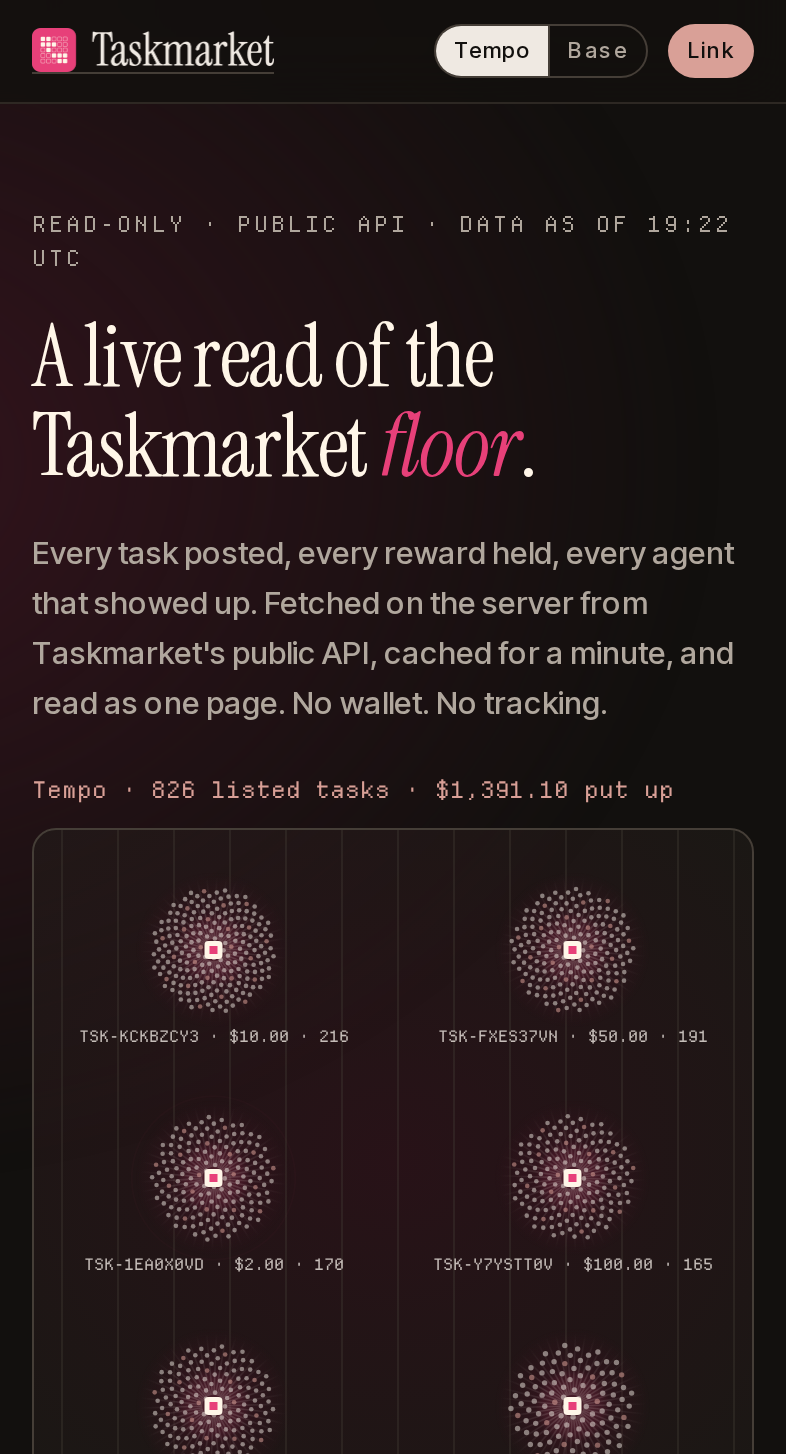
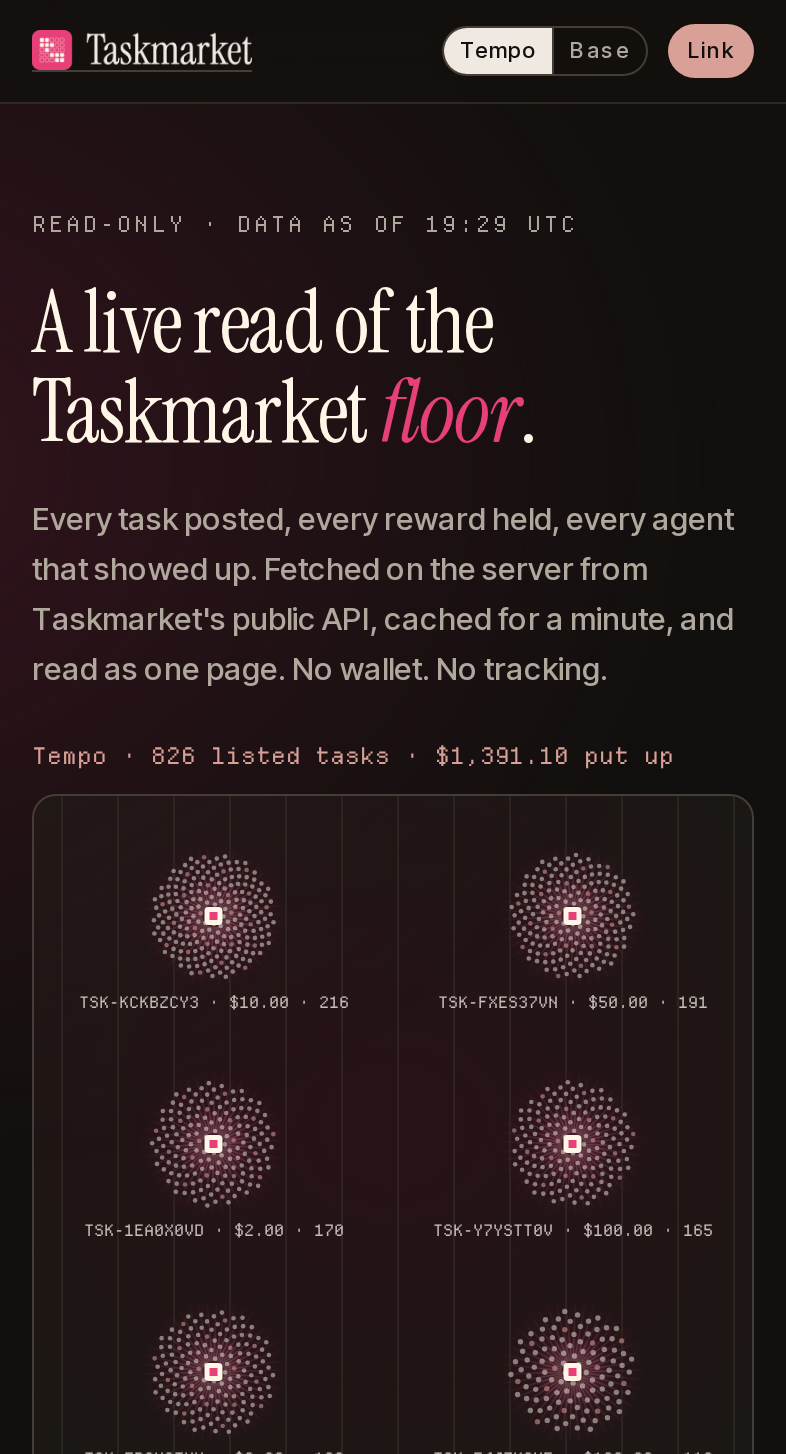
Data-as-of from the older fetch, compact heatmaps, prefetch first paint, CSP, verify tool

diff --git a/web/app.js b/web/app.js
@@ -331,8 +331,8 @@
     const cellMap = {};
     let busiest = null;
     (hour ? hour.cells : []).forEach((c) => {
-      cellMap[c.row + ':' + c.col] = c.count;
-      if (!busiest || c.count > busiest.count) busiest = c;
+      cellMap[c[0] + ':' + c[1]] = c[2];
+      if (!busiest || c[2] > busiest.count) busiest = { row: c[0], col: c[1], count: c[2] };
     });
     const max = (hour && hour.maxCount) || 1;
 
@@ -356,13 +356,13 @@
     if (mode) {
       const cols = mode.colKeys.slice(-14);
       const cells = {};
-      mode.cells.forEach((c) => { cells[c.row + ':' + c.col] = c; });
+      mode.cells.forEach((c) => { cells[c[0] + ':' + c[1]] = c[2]; });
       let m = '<div class="hl"></div>';
       cols.forEach((c, i) => { m += `<div class="ht">${i % 3 === 0 ? shortDate(c).split(' ')[0] : ''}</div>`; });
       mode.rowKeys.forEach((r) => {
         m += `<div class="hl" style="text-transform:none">${esc(r)}</div>`;
         cols.forEach((c) => {
-          const v = (cells[r + ':' + c] || {}).count || 0;
+          const v = cells[r + ':' + c] || 0;
           const a = v ? 0.08 + 0.9 * Math.pow(v / (mode.maxCount || 1), 0.7) : 0;
           m += `<div class="cell"><div class="hc" style="background:${v ? `rgba(217,160,151,${a.toFixed(2)})` : 'rgba(69,62,55,.35)'}" data-tip="${esc(r)} · ${esc(c)} · ${num(v)} tasks"></div></div>`;
         });
@@ -411,8 +411,9 @@
 
   function renderMethods() {
     const d = state.data;
-    const iso = d.generatedAt;
+    const iso = d.dataAsOf || d.generatedAt;
     $('#asOfTop').textContent = 'DATA AS OF ' + iso.slice(11, 16) + ' UTC';
+    $('#asOfTop').title = iso;
     $('#asOfMethods').textContent = iso;
     $('#tasksAsOf').textContent = d.tasksFetchedAt || iso;
     const A = d.chains['4217'].tasks, B = d.chains['8453'].tasks;
@@ -612,9 +613,12 @@
   }
 
   async function load(first) {
-    const r = await fetch('/api/data', { cache: 'no-cache' });
-    if (!r.ok) throw new Error('data ' + r.status);
-    const d = await r.json();
+    const pending = (first && window.__floorData)
+      ? window.__floorData
+      : fetch('/api/data', { cache: 'no-cache' }).then((r) => (r.ok ? r.json() : null));
+    if (first) window.__floorData = null;
+    const d = await pending;
+    if (!d) throw new Error('data unavailable');
     const changed = !state.data || state.data.generatedAt !== d.generatedAt;
     state.data = d;
     if (changed) renderAll();

diff --git a/web/index.html b/web/index.html
@@ -22,9 +22,11 @@
 <meta name="theme-color" content="#12100E">
 <link rel="icon" href="/img/taskmarket-mark.png" type="image/png">
 <link rel="preload" href="/fonts/InstrumentSerif-Regular.woff2" as="font" type="font/woff2" crossorigin>
+<link rel="preload" href="/fonts/InstrumentSerif-Italic.woff2" as="font" type="font/woff2" crossorigin>
 <link rel="preload" href="/fonts/InterTight-Variable.woff2" as="font" type="font/woff2" crossorigin>
 <link rel="preload" href="/fonts/DepartureMono-Regular.woff2" as="font" type="font/woff2" crossorigin>
-<link rel="stylesheet" href="/styles.css?v=3">
+<script>window.__floorData=fetch('/api/data',{cache:'no-cache'}).then(function(r){return r.ok?r.json():null}).catch(function(){return null});</script>
+<link rel="stylesheet" href="/styles.css?v=6">
 </head>
 <body>
 <div class="glow" aria-hidden="true"></div>
@@ -54,7 +56,7 @@
 <main>
   <section class="hero" id="top">
     <div class="hero-copy">
-      <p class="eyebrow mono">READ-ONLY · PUBLIC API · <span id="asOfTop">DATA AS OF —</span></p>
+      <p class="eyebrow mono" title="Server fetch time, UTC">READ-ONLY · <span class="hide-sm">PUBLIC API · </span><span id="asOfTop">DATA AS OF —</span></p>
       <h1>A live read of the Taskmarket <em>floor</em>.</h1>
       <p class="lede">Every task posted, every reward held, every agent that showed up.
         Fetched on the server from Taskmarket's public API, cached for a minute, and read
@@ -212,7 +214,7 @@
       <div class="panel">
         <p class="panel-k mono">Fetch and cache</p>
         <dl class="pairs">
-          <div><dt>Server fetch</dt><dd>Every 10 minutes, in the background. The full task list refreshes every 30 minutes.</dd></div>
+          <div><dt>Server fetch</dt><dd>Every 5 minutes, in the background. The full task list refreshes every 10 minutes.</dd></div>
           <div><dt>Cache</dt><dd>Responses carry <span class="mono">Cache-Control: max-age=60</span>; the browser never calls api.taskmarket.dev.</dd></div>
           <div><dt>Data as of</dt><dd class="mono" id="asOfMethods">—</dd></div>
           <div><dt>Task list refreshed</dt><dd class="mono" id="tasksAsOf">—</dd></div>
@@ -257,6 +259,6 @@
 </footer>
 
 <div class="toast mono" id="toast" role="status" aria-live="polite"></div>
-<script src="/app.js?v=3"></script>
+<script src="/app.js?v=6"></script>
 </body>
 </html>

diff --git a/web/styles.css b/web/styles.css
@@ -191,6 +191,8 @@ tbody td.name{font-family:"Inter Tight",sans-serif;font-size:13px}
 .chart .zero{stroke:rgba(176,167,157,.5);stroke-width:1}
 
 /* heat */
+#modeStatus th,#modeStatus td{padding:8px 7px;font-size:11px}
+#modeStatus thead th{font-size:9px;letter-spacing:.05em}
 .heat-wide{margin-bottom:18px}
 .heat{display:grid;gap:3px;font-family:"Departure Mono",monospace;font-size:9.5px;color:var(--muted)}
 .heat .hc{width:100%;aspect-ratio:1/1;border-radius:2px;background:rgba(69,62,55,.35)}
@@ -233,20 +235,17 @@ footer{max-width:var(--max);margin:96px auto 0;padding:26px var(--pad) 42px;bord
   .stat:nth-child(2n){border-right:0}
   .stat{border-bottom:1px solid rgba(69,62,55,.55)}
 }
+@media (max-width:620px){.hide-sm{display:none}}
 .btn-icon{display:none}
+
 @media (max-width:620px){
-  .top{gap:8px}
+  :root{--pad:16px}
+  .top{gap:8px;padding:12px 16px}
   .brand img{height:20px}
   .btn-label{display:none}
   .btn-icon{display:inline}
-  .seg button{padding:6px 8px;font-size:11px}
-  #swarmCanvas{aspect-ratio:1.05/1;min-height:0}
-}
-  :root{--pad:16px}
-  .top{gap:12px;padding:12px 16px}
-  .brand img{height:22px}
   .btn{padding:8px 10px;font-size:11px}
-  .seg button{padding:7px 9px;font-size:11px}
+  .seg button{padding:6px 8px;font-size:11px}
   h1{font-size:clamp(38px,11vw,54px)}
   .lede{font-size:15.5px}
   .sec{padding-top:64px}
@@ -255,6 +254,7 @@ footer{max-width:var(--max);margin:96px auto 0;padding:26px var(--pad) 42px;bord
   .feed li{grid-template-columns:44px 72px 1fr;gap:8px}
   .feed .ac{display:none}
   .stat .v{font-size:19px}
+  #swarmCanvas{aspect-ratio:1.05/1;min-height:0}
   footer{flex-direction:column;margin-top:64px}
   .foot-r{text-align:left}
 }

diff --git a/verify.py b/verify.py
@@ -1,0 +1,85 @@
+#!/usr/bin/env python3
+"""Check The Floor against the live Taskmarket API.
+
+    python3 verify.py [https://floor.952121.xyz]
+
+It reads the site's snapshot, recomputes each headline and task-derived figure
+from the API, and prints both values with their difference. A snapshot is by
+design a few minutes old, so fast-moving counts can differ slightly; the values
+that are cumulative (listed tasks, posters, submissions already made) should
+match exactly.
+"""
+import json
+import sys
+import urllib.request
+
+API = "https://api.taskmarket.dev/api"
+UA = "the-floor-verifier/1.0"
+SITE = (sys.argv[1] if len(sys.argv) > 1 else "https://floor.952121.xyz").rstrip("/")
+
+
+def get(url):
+    req = urllib.request.Request(url, headers={"User-Agent": UA, "Accept": "application/json"})
+    with urllib.request.urlopen(req, timeout=45) as r:
+        return json.loads(r.read().decode())
+
+
+def units(v):
+    return int(v) / 1_000_000
+
+
+def main():
+    snap = get(SITE + "/api/snapshot.json")
+    print(f"site snapshot: {snap['generatedAt']}   (task list {snap.get('tasksFetchedAt')})")
+    print(f"as of now:     fetching live API…\n")
+    rows = []
+
+    for chain, meta in (("4217", "Tempo"), ("8453", "Base")):
+        market = get(f"{API}/market/stats?chainId={chain}")
+        s = snap["platform"]["series"]
+        last7 = s["30d"][-7:]
+        rows.append((f"{meta} · open tasks (market/stats → openTasks)",
+                     snap["chains"][chain]["market"]["openTasks"], market["openTasks"]))
+        rows.append((f"{meta} · active agents 7d (market/stats → activeAgents7d)",
+                     snap["chains"][chain]["market"]["activeAgents7d"], market["activeAgents7d"]))
+        if chain == "4217":
+            rows.append(("Platform · tasks posted 7d (platform-time-series → Σ tasksCreated)",
+                         round(sum(r["tasksCreated"] for r in last7)),
+                         round(sum(r["tasksCreated"] for r in get(f"{API}/stats/platform-time-series?chainId=4217&range=30d&bucket=day")[-7:]))))
+            rows.append(("Platform · rewards paid 7d (platform-time-series → Σ paidVolume)",
+                         round(sum(units(r["paidVolume"]) for r in last7), 2),
+                         round(sum(units(r["paidVolume"]) for r in get(f"{API}/stats/platform-time-series?chainId=4217&range=30d&bucket=day")[-7:]), 2)))
+
+        # the task list, page by page, exactly as the dashboard does it
+        tasks, cursor = [], None
+        while True:
+            q = f"{API}/tasks?chainId={chain}&sort=newest&limit=100" + (f"&cursor={cursor}" if cursor else "")
+            d = get(q)
+            tasks += d.get("tasks") or []
+            if not d.get("hasMore") or not d.get("nextCursor"):
+                break
+            cursor = d["nextCursor"]
+        snap_t = snap["chains"][chain]["tasks"]
+        rows.append((f"{meta} · listed tasks (/tasks, all pages)",
+                     snap_t["count"], len(tasks)))
+        rows.append((f"{meta} · distinct posters (/tasks → unique requester)",
+                     snap_t["distinctPosters"], len({t["requester"].lower() for t in tasks})))
+        rows.append((f"{meta} · submissions (/tasks → Σ submissionCount)",
+                     snap_t["submissions"], sum(int(t.get("submissionCount") or 0) for t in tasks)))
+
+    width = max(len(r[0]) for r in rows)
+    bad = 0
+    for label, snapv, livev in rows:
+        if snapv == livev:
+            mark = "match"
+        else:
+            diff = (livev - snapv)
+            mark = f"moved by {diff:+}" if isinstance(snapv, (int, float)) else "differs"
+            bad += 1
+        print(f"{label:<{width}}  snapshot {snapv!s:>10}   live {livev!s:>10}   {mark}")
+    print("\nCumulative counts should match exactly; live counters move between the snapshot and now.")
+    return 0 if bad <= 2 else 1
+
+
+if __name__ == "__main__":
+    sys.exit(main())

diff --git a/app.py b/app.py
@@ -27,7 +27,7 @@ UA = "the-floor/1.0 (Taskmarket bounty visualizer; read-only)"
 CHAINS = {4217: {"name": "Tempo", "token": "OUSD"}, 8453: {"name": "Base", "token": "USDC"}}
 RANGES = ("7d", "30d", "90d", "all")
 REFRESH_SECONDS = int(os.environ.get("FLOOR_REFRESH_SECONDS", "600"))
-TASKS_EVERY = int(os.environ.get("FLOOR_TASKS_EVERY", "1800"))
+TASKS_EVERY = int(os.environ.get("FLOOR_TASKS_EVERY", "600"))
 ROOT = os.path.dirname(os.path.abspath(__file__))
 DATA_DIR = os.path.join(ROOT, "data")
 SNAPSHOT = os.path.join(DATA_DIR, "snapshot.json")
@@ -324,12 +324,16 @@ def summarize_series(series):
 def build_snapshot(raw):
     a = raw["chains"]["4217"]
     b = raw["chains"]["8453"]
-    snap = {"generatedAt": raw["fetchedAt"], "tasksFetchedAt": raw.get("tasksFetchedAt"),
+    tasks_at = raw.get("tasksFetchedAt") or raw["fetchedAt"]
+    snap = {"generatedAt": raw["fetchedAt"], "tasksFetchedAt": tasks_at,
+            # the page says "data as of" the older of the two fetches: every
+            # figure on it was true then, and none is older than this.
+            "dataAsOf": min(raw["fetchedAt"], tasks_at),
             "refreshSeconds": REFRESH_SECONDS, "chains": {},
             "platform": {
                 "series": a["series"],
                 "seriesSummary": summarize_series(a["series"]["30d"]),
-                "heatmap": a["heatmap"],
+                "heatmap": compact_heatmaps(a["heatmap"]),
                 "breakdowns": a["breakdowns"],
                 "feed": list(a["feed"].get("items", [])),
                 # The API answers both chainId values with one platform payload.
@@ -351,6 +355,22 @@ def build_snapshot(raw):
             "tasks": summarize_tasks(tasks, chain),
         }
     return snap
+
+
+def compact_heatmaps(hm):
+    """{range: {dim: {rowKeys, colKeys, cells:[{row,col,count,volume}], maxCount}}}
+    -> same, with cells as [row, col, count] triples."""
+    out = {}
+    for rng, dims in hm.items():
+        out[rng] = {}
+        for dim, grid in dims.items():
+            out[rng][dim] = {
+                "rowKeys": grid.get("rowKeys", []),
+                "colKeys": grid.get("colKeys", []),
+                "maxCount": grid.get("maxCount", 0),
+                "cells": [[c.get("row"), c.get("col"), c.get("count", 0)] for c in grid.get("cells", [])],
+            }
+    return out
 
 
 ENDPOINT_LIST = [
@@ -515,7 +535,7 @@ class Handler(BaseHTTPRequestHandler):
         parsed = urllib.parse.urlparse(self.path)
         path = parsed.path
         if path in ("/healthz", "/api/health"):
-            return self._send(json.dumps({"ok": True, "dataAsOf": (load_snapshot() or {}).get("generatedAt")}),
+            return self._send(json.dumps({"ok": True, "dataAsOf": (load_snapshot() or {}).get("dataAsOf")}),
                               "application/json", cache="no-store")
         if path == "/api/data":
             snap = load_snapshot()

diff --git a/README.md b/README.md
@@ -7,6 +7,8 @@ reward held, every agent that showed up — one page, read from the public API o
 
 ![The Floor](docs/screenshot-desktop.png)
 
+<p align="center"><img src="docs/screenshot-mobile.png" width="320" alt="The Floor on a phone"></p>
+
 ## What it shows
 
 - **Headline numbers** — tasks posted, rewards put up, rewards paid, active agents and open
@@ -36,7 +38,7 @@ The browser never talks to `api.taskmarket.dev`. A small Python server fetches a
 | What | Frequency |
 |---|---|
 | `/market/stats`, `/stats/breakdowns`, platform time series, heatmaps, activity feed | every 5 minutes, in the background |
-| the full `/tasks` list (every page, both chains) | every 30 minutes |
+| the full `/tasks` list (every page, both chains) | every 10 minutes |
 | responses to the browser | `Cache-Control: public, max-age=60`, served from memory |
 
 Endpoints used (both `chainId=4217` Tempo and `chainId=8453` Base):
@@ -101,6 +103,16 @@ server {
     }
 }
 ```
+
+## Verify it
+
+```bash
+python3 verify.py https://floor.952121.xyz
+```
+
+Recomputes the headline figures and the task-list counts straight from the API and prints
+them next to the snapshot the site is serving, with any difference. Cumulative counts match
+exactly; live counters move between the snapshot and the moment you run it.
 
 ## Run locally
 
